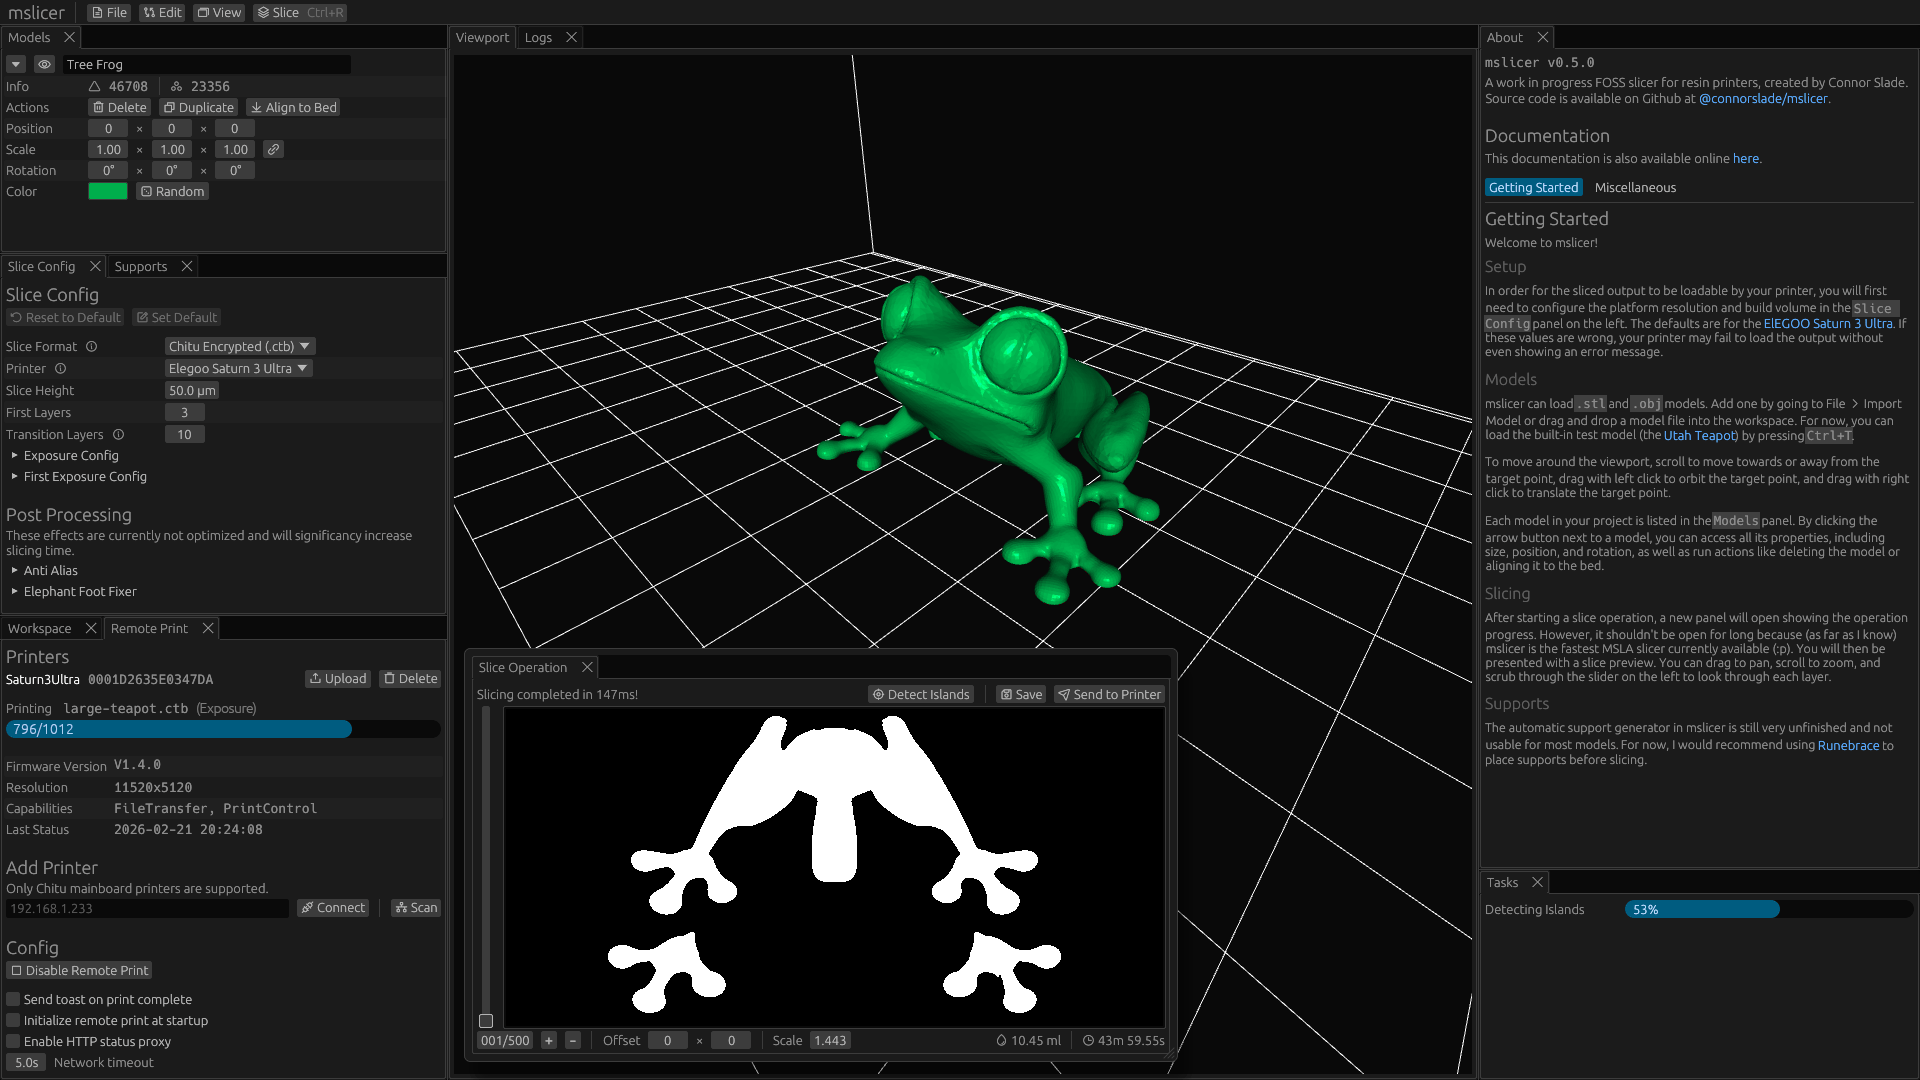
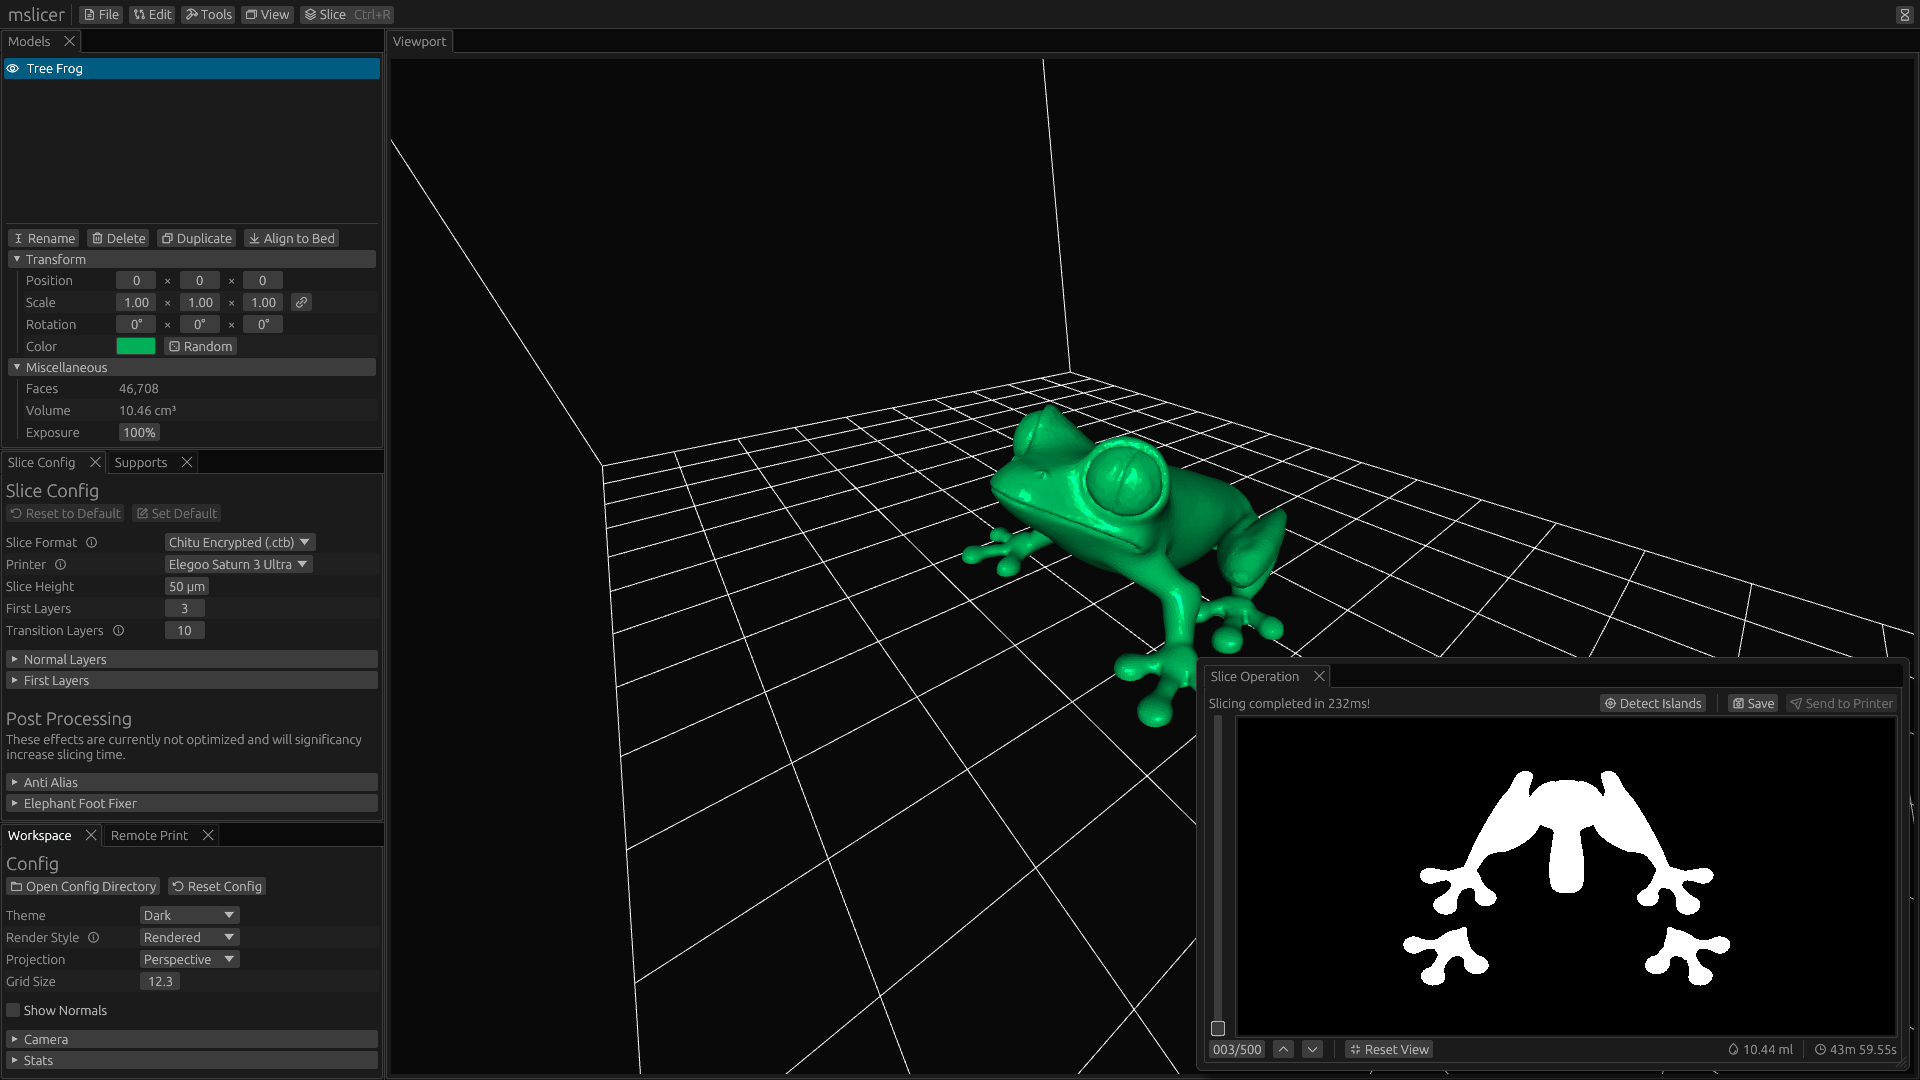
Update for v0.6.0 release

diff --git a/content/docs/changelog.md b/content/docs/changelog.md
@@ -1,10 +1,40 @@
 ---
 title: Changelogs
 description: History of mslicer releases.
-date: 2026-02-23
+date: 2026-03-23
 ---
 
 You can view previous releases [on Github](https://github.com/connorslade/mslicer/releases).
+
+## v0.6.0 &mdash; March 23rd, 2026
+
+- New logo/icon (gnome inspired)
+- Better packaging for MacOS (.app bundle) and Windows (.rc file)
+- Keyboard shortcuts use ⌘ on MacOS
+- Fix panic caused by race condition
+- Show annotated layers on slice preview slider
+- Show project file name in window title
+- Cleanup slice preview scaling
+  - Will now always default to 1× scale
+  - Zooming is now centered on the cursor position
+- Cleanup model panel UI
+- Remove accidental doc-tests in [stl.rs](https://github.com/connorslade/mslicer/blob/main/format/mesh_format/src/stl.rs), which blocking nixpkgs-update build
+- Make slices at middle of layer height (not bottom)
+- Fix volume stored in .nanodlp files
+- Add exposure PWM control to slice config ([#21](https://github.com/connorslade/mslicer/issues/21))
+- Fix layers rendering flipped in slice preview  ([#20](https://github.com/connorslade/mslicer/issues/20))
+- Use standard unit (mm/min) for lift/retract speeds and slice height ([#22](https://github.com/connorslade/mslicer/issues/22))
+- Replace about panel with a first time popup that links to the documentation
+- Show individual model volume (before slicing)
+- Model specific relative exposures ([#18](https://github.com/connorslade/mslicer/pull/18))
+- Correctly overwrite render settings when generating preview images
+  - Will now use rendered mode without overhang detection, the default fov, and the correct aspect ratio
+- Pick between Perspective or Orthographic camera projections
+- Camera pitch is no longer locked between (-90°, 90°)
+- Exposure test generator ([#24](https://github.com/connorslade/mslicer/pull/24))
+- Button to create new project
+- Fix numerical precision issues introduced when converting units
+- Replace tasks panel with top bar widget
 
 ## v0.5.0 &mdash; February 21st, 2026
 

diff --git a/content/_index.md b/content/_index.md
@@ -7,11 +7,13 @@ A high-performance, open-source slicer for {{details(body="MSLA", desc="Masked s
 Compatible with printers that support any of the following file formats: Chitu (.ctb), Elegoo (.goo), or NanoDLP (.nanodlp).
 
 <div class="screenshots">
-    <img src="frog.png" id="s-1" fetchpriority=high />
-    <img src="supported-dragon.png" id="s-2" />
+    <img src="supported-dragon.png" id="s-1" fetchpriority=high />
+    <img src="frog.png" id="s-2" />
+    <img src="about.png" id="s-3" />
     <div class="screenshot-selector">
         <label><input type="radio" name="screenshot" id="sb-1" checked /></label>
         <label><input type="radio" name="screenshot" id="sb-2" /></label>
+        <label><input type="radio" name="screenshot" id="sb-3" /></label>
     </div>
 </div>
 
@@ -66,7 +68,7 @@ The latest stable version [v{{config(key='version')}}](/docs/changelog), was rel
     <div>
         <h4><img src="icons/apple-logo-fill.svg">MacOS</h4>
         <ul>
-            <li><a href="https://github.com/connorslade/mslicer/releases/download/{{ config(key='version') }}/mslicer-aarch64-apple-darwin">App (Intel)</a></li>
+            <li><a href="https://github.com/connorslade/mslicer/releases/download/{{ config(key='version') }}/mslicer-x86_64-apple-darwin.zip">App (Intel)</a></li>
         </ul>
     </div>
 </div>
@@ -148,7 +150,8 @@ cargo build --release --package mslicer
     }
     
     body:has(input#sb-1:not(:checked)) #s-1,
-    body:has(input#sb-2:not(:checked)) #s-2 {
+    body:has(input#sb-2:not(:checked)) #s-2,
+    body:has(input#sb-3:not(:checked)) #s-3 {
         display: none;
     }
 </style>
